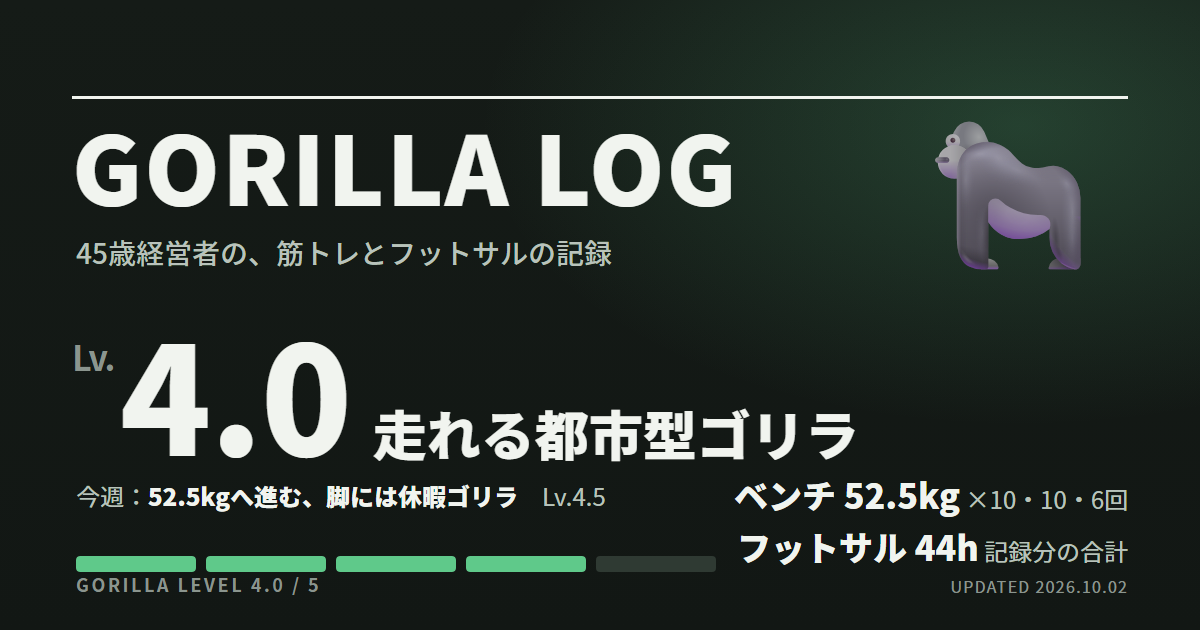
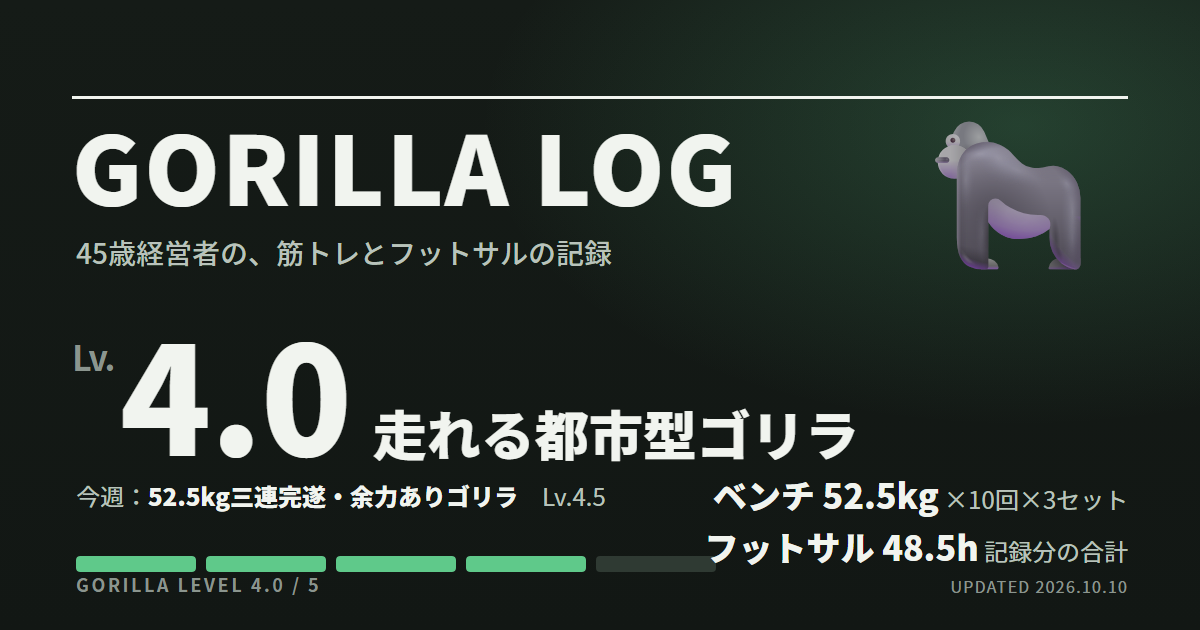
week of 2026-10-10: R48〜R52 を追加
- 10/4 フットサル2.5h、10/5 ジム（ベンチ52.5kg×10×3達成、スクワット50kgに調整）、10/7 フットサル2h、10/8・10/9 自宅16セット
- 週判定「52.5kg三連完遂・余力ありゴリラ Lv.4.5」と今週のひと言

Changed region(s): [[0.5858, 0.754, 0.9558, 0.9048], [0.185, 0.754, 0.37, 0.8143], [0.925, 0.9048, 0.9558, 0.9349]]

diff --git a/data/records.js b/data/records.js
@@ -34,7 +34,7 @@ window.GORILLA_DATA = {
   meta: {
     siteName: "GORILLA LOG",
     tagline: "45歳経営者の、筋トレとフットサルの記録",
-    updated: "2026-10-02",
+    updated: "2026-10-10",
     since: "2025-09",
     overallLevel: 4.0,
     overallTitle: "走れる都市型ゴリラ",
@@ -423,6 +423,46 @@ window.GORILLA_DATA = {
       exercises: ["ダンベルプレス 10kg×15・15・20", "ワンハンドローイング 10kg×30×3", "ブルガリアンスクワット 自重×20×3", "ダンベルフライ 10kg×12・12・20", "フロントレイズ 10kg×10×2", "フレンチプレス 10kg×20×2"],
       source: "画像で確認",
     },
+    {
+      id: "R48", date: "2026-10-04", type: "futsal",
+      title: "フットサル2.5時間", hours: 2.5, level: 3.5, provisional: true,
+      nickname: "日曜2.5時間のコートゴリラ",
+      note: "今週1回目のフットサル。翌日のジムでは、リカバリー目的に加えてこの参加も考慮してスクワットを軽めにした。参加時間を連続走行時間に換算しない。",
+      source: "10月10日の本人報告",
+    },
+    {
+      id: "R49", date: "2026-10-05", type: "gym",
+      title: "ベンチ52.5kg×10×3 達成／スクワット50kg×10×3（リカバリー目的）", level: 4.5,
+      nickname: "52.5kg三連完遂ゴリラ",
+      note: "9月28日の10・10・6回から、同じ52.5kgで10・10・10回へ（主セット計26→30回）。トレーナーから「まだ余力ありますね」と言われたと本人報告。スクワットは前日フットサルも踏まえ50kgに調整したもので、筋力が落ちたとは扱わない。",
+      bench: { w: 52.5, reps: [10, 10, 10], full: true, verified: true },
+      squat: { w: 50, reps: [10, 10, 10], verified: true },
+      exercises: ["上体起こし 自重×10×3", "ベンチプレス 20×10, 30×5, 52.5×10×3, 35×10", "インクラインベンチプレス 30×10, 35×10×2", "バーベルスクワット 20×10, 50×10×3（リカバリー目的で軽め）", "ブルガリアンスクワット 自重×10, 20", "フロントレイズ 10kg×10×2"],
+      source: "画像で確認",
+    },
+    {
+      id: "R50", date: "2026-10-07", type: "futsal",
+      title: "フットサル2時間", hours: 2, level: 3.0, provisional: true,
+      nickname: "平日もコートへ戻るゴリラ",
+      note: "今週2回目の参加。7日フットサル→8日自宅→9日自宅という並びの起点で、脚への負荷が続く配置として週総評で確認。",
+      source: "10月10日の本人報告",
+    },
+    {
+      id: "R51", date: "2026-10-08", type: "home",
+      title: "自宅トレ 6種目・16セット（10月2日と同じ構成）", level: 3.5, sets: 16,
+      nickname: "50回プレスを再現する自宅ゴリラ",
+      note: "プレス計50回、フライ44回、フレンチプレス40回。10月2日と全6種目の重量・回数・セット数が一致し、前回のメニューを再び実施した記録。前日はフットサル2時間。",
+      exercises: ["ダンベルプレス 10kg×15・15・20", "ワンハンドローイング 10kg×30×3", "ブルガリアンスクワット 自重×20×3", "ダンベルフライ 10kg×12・12・20", "フロントレイズ 10kg×10×2", "フレンチプレス 10kg×20×2"],
+      source: "画像で確認",
+    },
+    {
+      id: "R52", date: "2026-10-09", type: "home",
+      title: "自宅トレ 6種目・16セット（8日と全種目一致）", level: 3.5, sets: 16,
+      nickname: "同じメニューをそろえる自宅ゴリラ",
+      note: "8日に続いて同じ6種目16セット。本人が別日の実施と明示し画像の日付も異なるため、別のトレーニングとして収録。同じ筋群への全身トレが2日連続になった点が今回の配置上の確認点。連日の我慢強さは加点しない。",
+      exercises: ["ダンベルプレス 10kg×15・15・20", "ワンハンドローイング 10kg×30×3", "ブルガリアンスクワット 自重×20×3", "ダンベルフライ 10kg×12・12・20", "フロントレイズ 10kg×10×2", "フレンチプレス 10kg×20×2"],
+      source: "画像で確認",
+    },
   ],
 
   /* 週単位・期間単位のゴリラ判定（新しいものを末尾に追加）。comment は「今週のひと言」（任意） */
@@ -439,6 +479,8 @@ window.GORILLA_DATA = {
       comment: "午前は65kgを担ぎ、午後はボールを追い、別の日には家で16セット。ジムとコートと自宅を使い分ける、二部制ゴリラである。ただし、身体は二交代制ではない。午前の脚と午後の脚は、同じ脚です。" },
     { range: "9月26日〜10月2日", combo: "自宅3回＋ジム1回＋フットサル1回・4時間", level: 4.5, name: "52.5kgへ進む、脚には休暇ゴリラ", note: "運動5日・5セッション。準備除外67セット（前週48）。胸25・背中15セット。重量表記の訂正は増量として加点しない",
       comment: "7.5kgだと思って振っていたダンベルが、シャフト込みで10kgだった。ゴリラが突然進化したのではなく、帳簿が実態に追いついた。一方、ベンチ52.5kgは新しい記録。鉄には一歩前へ、フットサル翌日の脚には休暇を。胸と肩にも、必要なら休暇を。" },
+    { range: "10月3〜9日", combo: "自宅2回＋ジム1回＋フットサル2回・計4.5時間", level: 4.5, name: "52.5kg三連完遂・余力ありゴリラ", note: "運動5日・5セッション。準備除外49セット（前週67）。ベンチは同重量で計26→30回。胸19・背中6セット。8・9日の連日実施は加点しない",
+      comment: "52.5kgは、「まず2セットできた重さ」から「3セットそろえた重さ」になった。しかも現場からは「まだ余力ありますね」。ベンチは一歩前へ、脚はその日に合わせて。自宅にも休みを挟めれば、長期運用ゴリラはさらに手堅い。" },
   ],
 
   /* 記録全体にかかる注記（新しいものを末尾に追加）。全記録の見出しの下に表示される */

diff --git a/DESIGN_AND_OPERATIONS.md b/DESIGN_AND_OPERATIONS.md
@@ -313,6 +313,7 @@ git push
 |---|---|
 | 2026-09-11 | 初版。33項目のアーカイブを構造化し、ダッシュボード・OGP・GA4ローダーを実装。GitHub Pages で公開 |
 | 2026-09-18 | R34〜R37 を追加（37項目）。休養タイプ `rest` を導入し採点外として表示。週判定に「今週のひと言」を追加。OGP画像のフットサル合計を37.5hに更新 |
+| 2026-10-10 | R48〜R52 を追加（52項目）。ベンチ52.5kg×10×3達成（ジム単日で初の Lv.4.5）。構造変更なし |
 | 2026-10-02 | R43〜R47 を追加（47項目）。ベンチ52.5kg、週判定は初の Lv.4.5。自宅ダンベルの重量表記訂正（7.5kg→シャフト込み10kg）を `notices` として新設し、過去ログは据え置き。ベンチ・スクワットのグラフ縦軸を自動拡張に変更 |
 | 2026-09-25 | R38〜R42 を追加（42項目）。中止タイプ `cancel` と同日2セッション（`session`）を導入。週判定に9/22同日全体と9/19〜25週を追加 |
 | 2026-09-18 | 配信を GitHub Actions に切替。OGP 画像を記録データから自動生成し、`og:image` / `og:url` に更新日バージョンを自動刻印。シェアボタンを追加 |
